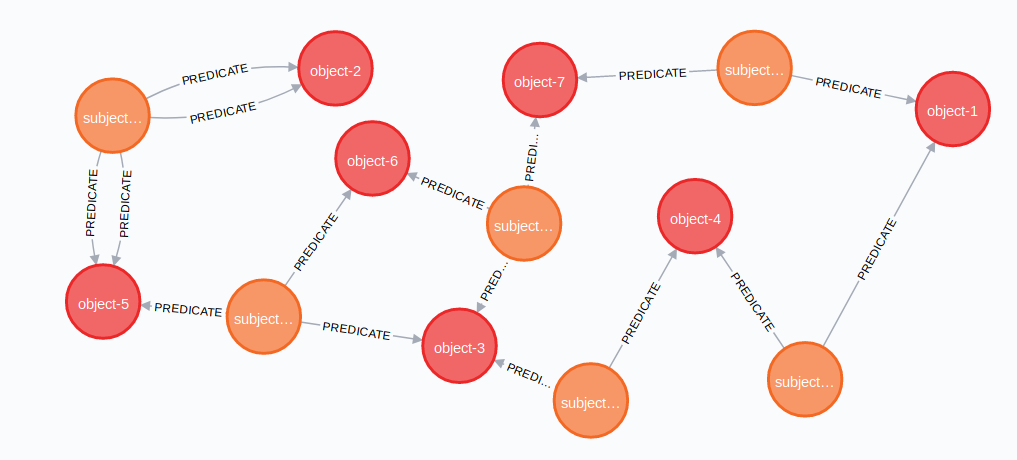
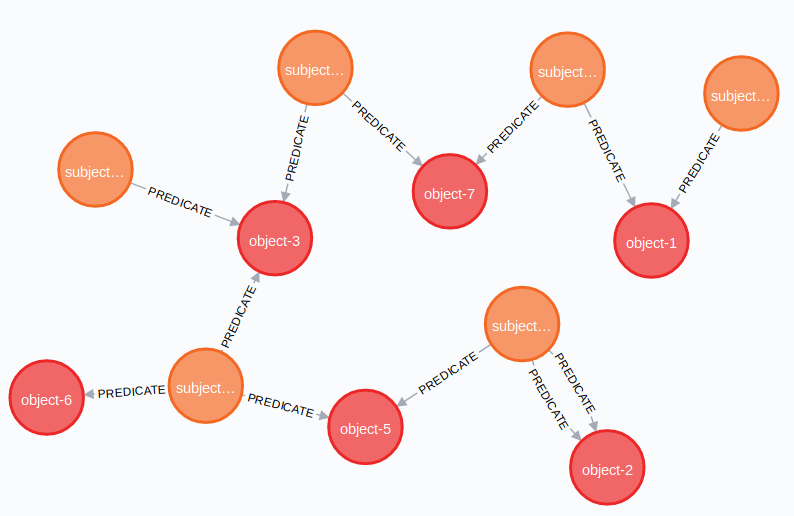
Update triple graph image

diff --git a/atomspace-storage-performance/src/main/java/sample/performance/neo4j/SampleNeo4j.java b/atomspace-storage-performance/src/main/java/sample/performance/neo4j/SampleNeo4j.java
@@ -6,6 +6,7 @@ import atomspace.performance.triple.RandomTripleGraph;
 import atomspace.performance.triple.Triple;
 import atomspace.performance.triple.TripleGraph;
 import org.apache.commons.lang3.time.StopWatch;
+import sample.performance.TestTripleGraphs;
 
 import java.util.List;
 import java.util.concurrent.TimeUnit;
@@ -25,8 +26,7 @@ public class SampleNeo4j {
 //            );
 
 
-            int N = 8;
-            RandomTripleGraph tripleGraph = new RandomTripleGraph(N, N / 2, N, N / 4);
+            TripleGraph tripleGraph = TestTripleGraphs.getRandomTripleGraph(8, 12);
 
 
             TripleNeo4jModel model = new TripleNativeNeo4jModel(storage, tripleGraph);

diff --git a/atomspace-storage-performance/src/main/java/sample/performance/neo4j/PerformanceSampleNeo4j.java b/atomspace-storage-performance/src/main/java/sample/performance/neo4j/PerformanceSampleNeo4j.java
@@ -13,7 +13,7 @@ public class PerformanceSampleNeo4j {
 
         try (DBNeo4jStorage storage = new DBNeo4jStorage()) {
 
-            int N = 20;
+            int N = 2;
             int iterations = 4;
 
             TripleGraph tripleGraph = TestTripleGraphs.getTripleGraph3();

diff --git a/atomspace-storage-performance/README.md b/atomspace-storage-performance/README.md
@@ -45,7 +45,7 @@ triples:
 (subject-3, predicate-1, object-5)
 (subject-6, predicate-0, object-7)
 ```
-Triple graph with N = 8 in Native model:  
+Triple graph with N = 8 and S = 12 in Native model:
 ![Triple graph](docs/images/triple_graph.png)
 
 
